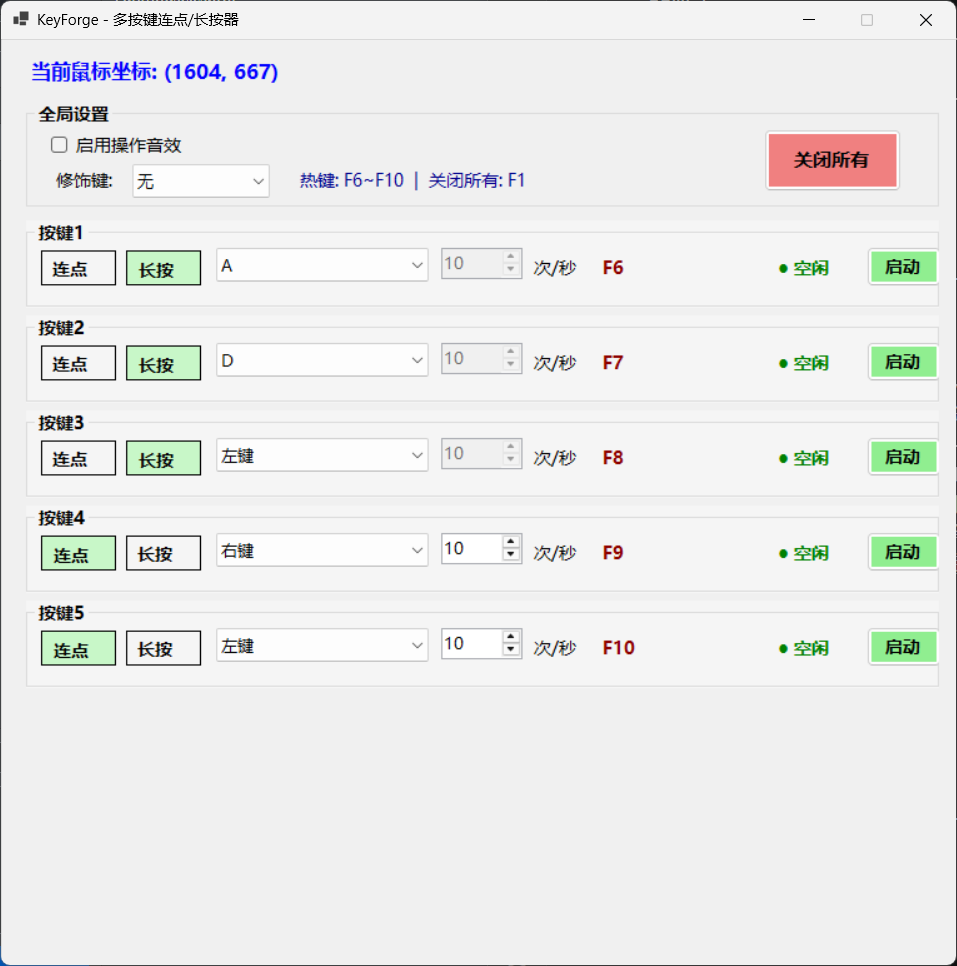
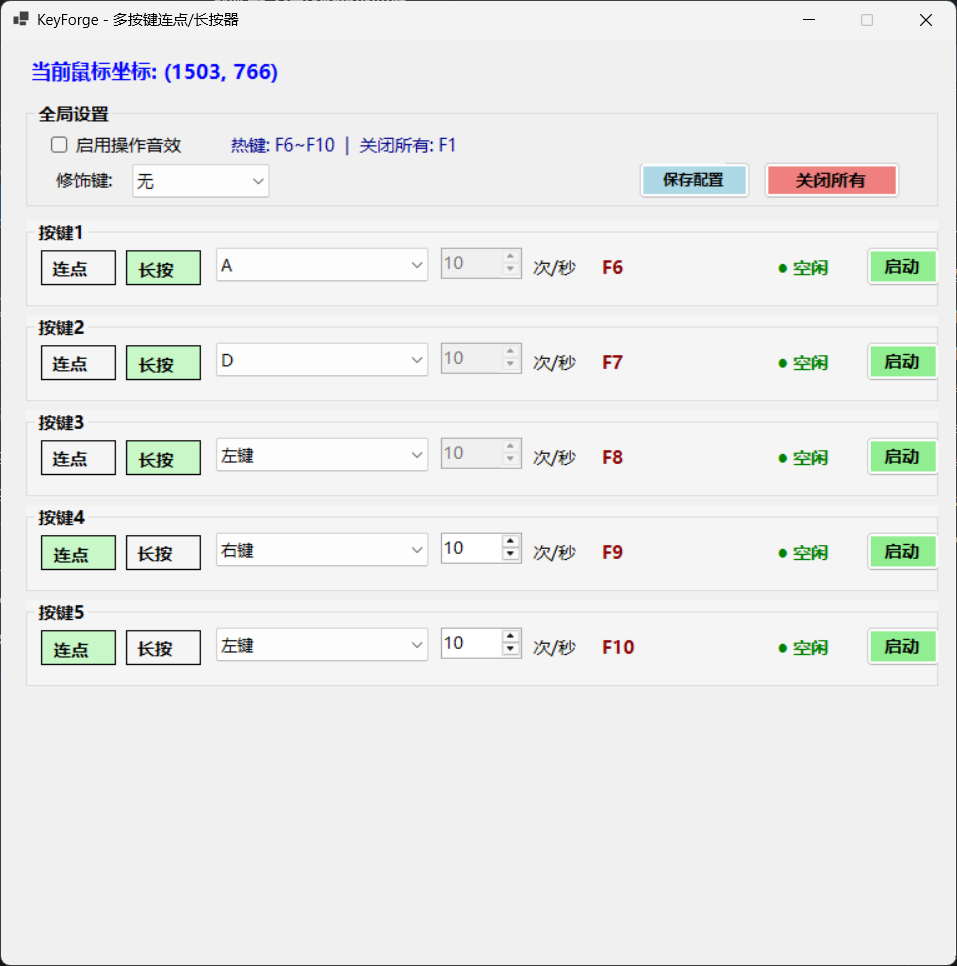
配置持久化

diff --git a/Form1.cs b/Form1.cs
@@ -38,7 +38,7 @@ namespace MouseKeyboardClicker
 
         private const int HOTKEY_BASE = 100;
         private const int HOTKEY_EMERGENCY = 99;
-        private const string CONFIG_FILE = "KeyForge.cfg";
+        private static readonly string CONFIG_FILE = Path.Combine(Application.StartupPath, "KeyForge.cfg");
 
         [Flags]
         private enum ModifierKey
@@ -81,6 +81,7 @@ namespace MouseKeyboardClicker
 
         private Label? lblMousePos;
         private Button? btnEmergencyStop;
+        private Button? btnSaveConfig;
         private CheckBox? chkSound;
         private ComboBox? cbModifier;
         private Label? lblModifierHint;
@@ -89,7 +90,6 @@ namespace MouseKeyboardClicker
         public Form1()
         {
             InitializeActions();
-            LoadConfig();
             InitializeComponent();
             this.Load += Form1_Load;
             this.FormClosing += Form1_FormClosing;
@@ -124,7 +124,6 @@ namespace MouseKeyboardClicker
             }
             catch (Exception ex)
             {
-                Debug.WriteLine($"保存配置失败: {ex.Message}");
             }
         }
 
@@ -168,13 +167,38 @@ namespace MouseKeyboardClicker
             }
             catch (Exception ex)
             {
-                Debug.WriteLine($"加载配置失败: {ex.Message}");
             }
+        }
+
+        private void ApplyConfigToUI()
+        {
+            if (chkSound != null)
+                chkSound.Checked = soundEnabled;
+            if (cbModifier != null)
+                cbModifier.SelectedIndex = currentModifierIndex;
+            
+            for (int i = 0; i < actions.Count; i++)
+            {
+                var action = actions[i];
+                var controls = action.Controls;
+                if (controls != null)
+                {
+                    if (controls.RbClick != null)
+                        controls.RbClick.Checked = action.IsClickMode;
+                    if (controls.RbPress != null)
+                        controls.RbPress.Checked = !action.IsClickMode;
+                    if (controls.CbKey != null)
+                        controls.CbKey.SelectedItem = action.KeyValue;
+                    if (controls.NumFreq != null)
+                        controls.NumFreq.Value = action.Frequency;
+                }
+            }
+            
+            UpdateModifierHint();
         }
 
         private void InitializeComponent()
         {
-            // 窗口高度减少20%：从980降到780
             this.Size = new Size(780, 780);
             this.Text = "KeyForge - 多按键连点/长按器";
             this.StartPosition = FormStartPosition.CenterScreen;
@@ -183,7 +207,6 @@ namespace MouseKeyboardClicker
 
             int yPos = 15;
 
-            // 鼠标坐标
             lblMousePos = new Label
             {
                 Text = "当前鼠标坐标: (0, 0)",
@@ -195,7 +218,6 @@ namespace MouseKeyboardClicker
             this.Controls.Add(lblMousePos);
             yPos += 35;
 
-            // 全局设置区域
             var gbGlobal = new GroupBox
             {
                 Text = "全局设置",
@@ -203,7 +225,7 @@ namespace MouseKeyboardClicker
                 Size = new Size(730, 85),
                 Font = new Font("微软雅黑", 10, FontStyle.Bold)
             };
-            
+
             chkSound = new CheckBox
             {
                 Text = "启用操作音效",
@@ -212,12 +234,22 @@ namespace MouseKeyboardClicker
                 Checked = soundEnabled,
                 Font = new Font("微软雅黑", 10)
             };
-            chkSound.CheckedChanged += (s, e) => 
-            { 
+            chkSound.CheckedChanged += (s, e) =>
+            {
                 soundEnabled = chkSound.Checked;
                 SaveConfig();
             };
-            
+
+            lblModifierHint = new Label
+            {
+                Text = "",
+                Location = new Point(160, 24),
+                Size = new Size(400, 26),
+                Font = new Font("微软雅黑", 10),
+                ForeColor = Color.DarkBlue
+            };
+            UpdateModifierHint();
+
             Label lblModifier = new Label
             {
                 Text = "修饰键:",
@@ -235,38 +267,39 @@ namespace MouseKeyboardClicker
             cbModifier.Items.AddRange(new object[] { "无", "Ctrl", "Alt", "Shift", "Ctrl+Alt", "Ctrl+Shift", "Alt+Shift", "Ctrl+Alt+Shift" });
             cbModifier.SelectedIndex = currentModifierIndex;
             cbModifier.SelectedIndexChanged += ModifierChanged;
-            
-            lblModifierHint = new Label
+
+            btnSaveConfig = new Button
             {
-                Text = "",
-                Location = new Point(215, 52),
-                Size = new Size(350, 26),
-                Font = new Font("微软雅黑", 10),
-                ForeColor = Color.DarkBlue
+                Text = "保存配置",
+                Location = new Point(490, 48),
+                Size = new Size(90, 30),
+                BackColor = Color.LightBlue,
+                Font = new Font("微软雅黑", 9, FontStyle.Bold)
             };
-            
+            btnSaveConfig.Click += (s, e) => SaveConfig();
+
             btnEmergencyStop = new Button
             {
                 Text = "关闭所有",
-                Location = new Point(590, 22),
-                Size = new Size(110, 50),
+                Location = new Point(590, 48),
+                Size = new Size(110, 30),
                 BackColor = Color.LightCoral,
-                Font = new Font("微软雅黑", 11, FontStyle.Bold)
+                Font = new Font("微软雅黑", 10, FontStyle.Bold)
             };
             btnEmergencyStop.Click += BtnEmergencyStop_Click;
-            
+
             gbGlobal.Controls.Add(chkSound);
+            gbGlobal.Controls.Add(lblModifierHint);
             gbGlobal.Controls.Add(lblModifier);
             gbGlobal.Controls.Add(cbModifier);
-            gbGlobal.Controls.Add(lblModifierHint);
+            gbGlobal.Controls.Add(btnSaveConfig);
             gbGlobal.Controls.Add(btnEmergencyStop);
             this.Controls.Add(gbGlobal);
             yPos += 95;
 
-            // 创建5个按键面板
             for (int i = 0; i < actions.Count; i++)
             {
-                var panel = CreateKeyPanel(actions[i], i);
+                var panel = CreateKeyPanel(actions[i]);
                 panel.Location = new Point(20, yPos);
                 this.Controls.Add(panel);
                 yPos += panel.Height + 6;
@@ -275,13 +308,13 @@ namespace MouseKeyboardClicker
             mousePosTimer = new System.Windows.Forms.Timer();
             mousePosTimer.Interval = 50;
             mousePosTimer.Tick += MousePosTimer_Tick;
-            
-            UpdateModifierHint();
         }
 
         private void ModifierChanged(object? sender, EventArgs e)
         {
-            currentModifierIndex = cbModifier?.SelectedIndex ?? 1;
+            if (cbModifier == null) return;
+            
+            currentModifierIndex = cbModifier.SelectedIndex;
             currentModifier = currentModifierIndex switch
             {
                 0 => ModifierKey.None,
@@ -325,7 +358,7 @@ namespace MouseKeyboardClicker
             }
             else
             {
-                displayText = $"热键: {modifierText} + F6~F10  |  关闭所有: {modifierText} + F1";
+                displayText = $"热键: {modifierText}+F6~F10  |  关闭所有: {modifierText}+F1";
             }
             lblModifierHint.Text = displayText;
         }
@@ -353,7 +386,7 @@ namespace MouseKeyboardClicker
             return (uint)currentModifier;
         }
 
-        private GroupBox CreateKeyPanel(KeyAction action, int index)
+        private GroupBox CreateKeyPanel(KeyAction action)
         {
             var panel = new GroupBox
             {
@@ -368,7 +401,6 @@ namespace MouseKeyboardClicker
             
             var controls = new KeyControlData();
 
-            // 连点/长按 圆形复选框 - 加大尺寸和字号
             controls.RbClick = new RadioButton
             {
                 Text = "连点",
@@ -422,7 +454,6 @@ namespace MouseKeyboardClicker
             panel.Controls.Add(controls.RbClick);
             panel.Controls.Add(controls.RbPress);
 
-            // 按键选择
             controls.CbKey = new ComboBox
             {
                 Location = new Point(x + 140, y - 2),
@@ -480,7 +511,6 @@ namespace MouseKeyboardClicker
             };
             panel.Controls.Add(controls.CbKey);
 
-            // 频率
             controls.NumFreq = new NumericUpDown
             {
                 Location = new Point(x + 320, y - 2),
@@ -507,7 +537,6 @@ namespace MouseKeyboardClicker
             panel.Controls.Add(controls.NumFreq);
             panel.Controls.Add(lblFreq);
 
-            // 热键提示
             controls.LblHotkeyHint = new Label
             {
                 Text = GetHotkeyDisplay(action.HotkeyBase),
@@ -519,7 +548,6 @@ namespace MouseKeyboardClicker
             };
             panel.Controls.Add(controls.LblHotkeyHint);
 
-            // 状态显示
             controls.LblStatus = new Label
             {
                 Text = "● 空闲",
@@ -531,7 +559,6 @@ namespace MouseKeyboardClicker
             };
             panel.Controls.Add(controls.LblStatus);
 
-            // 手动控制按钮
             controls.BtnControl = new Button
             {
                 Text = "启动",
@@ -789,6 +816,8 @@ namespace MouseKeyboardClicker
         private void Form1_Load(object? sender, EventArgs e)
         {
             mousePosTimer?.Start();
+            LoadConfig();
+            ApplyConfigToUI();
             RegisterHotkeys();
         }
 

diff --git a/README.md b/README.md
@@ -28,7 +28,7 @@
 ```bash
 # 克隆仓库
 git clone https://github.com/zlqd123/zunmouse
-cd KeyForge
+cd zunmouse
 
 # 编译 Release 版本
 dotnet build -c Release